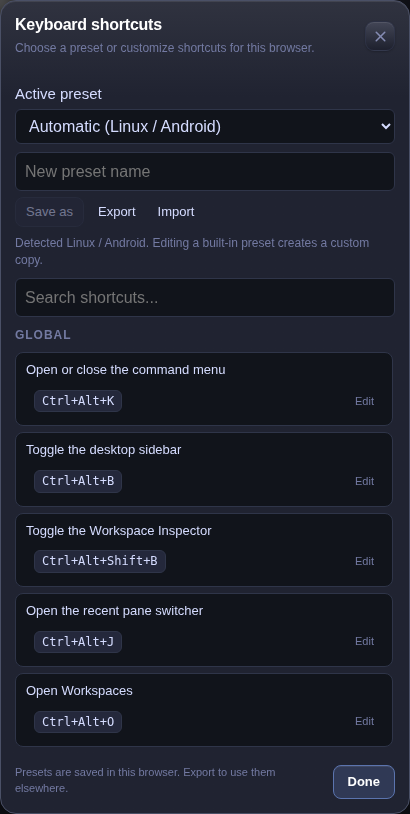
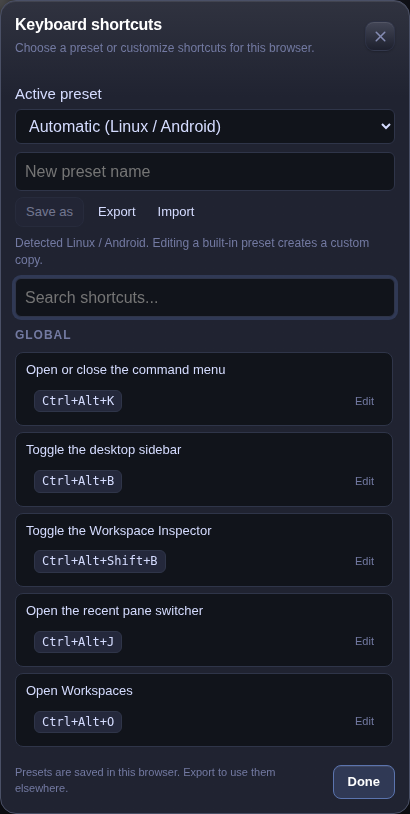
Fix terminal application paging and add configurable copy shortcuts

Changed region(s): [[0.0293, 0.3378, 0.9951, 0.3993]]

diff --git a/server/src/bridge/endpoint-terminal-session.test.ts b/server/src/bridge/endpoint-terminal-session.test.ts
@@ -1138,7 +1138,8 @@ test("terminal bridge carries endpoint mouse state and targets each attached ter
       ["down", "history"],
       ["up", "page-key"],
     ]) {
-      const before = scrollRequests.length;
+      const beforeScrolls = scrollRequests.length;
+      const beforeInputs = inputs.length;
       await bridge.handleTerminalRpc(ws, "history", "terminal.scroll", {
         terminal_id: "right",
         direction,
@@ -1146,15 +1147,17 @@ test("terminal bridge carries endpoint mouse state and targets each attached ter
         source,
       });
       // Verify each routing mode separately; bursts intentionally coalesce.
-      await settleUntil(() => scrollRequests.length > before);
+      if (source === "page-key")
+        await settleUntil(() => inputs.length > beforeInputs);
+      else await settleUntil(() => scrollRequests.length > beforeScrolls);
     }
     await Bun.sleep(40);
     expect(scrollRequests).toEqual([
       { pane_id: "w1:p2", offset_from_bottom: 7 },
       { pane_id: "w1:p2", offset_from_bottom: 0 },
-      { pane_id: "w1:p2", offset_from_bottom: 7 },
     ]);
-    expect(inputs).toHaveLength(2);
+    expect(inputs).toHaveLength(3);
+    expect(inputs.at(-1)).toBe("w1:p2");
   } finally {
     bridge.dispose();
   }
@@ -3211,3 +3214,96 @@ describe("scroll dispatch reconciliation", () => {
     },
   );
 });
+
+test("full page keys use semantic pane input even when history scrolling is unavailable", async () => {
+  const inputs: Array<{ paneId: string; code: number; modifiers: number }> = [];
+  const requests: string[] = [];
+  const socketPath = await startSessionServer({
+    methods: ["pane.focus"],
+    onRequest: (method) => {
+      requests.push(method);
+    },
+    onPaneInput: (paneId, reader) => {
+      expect(reader.varint()).toBe(1); // one event
+      expect(reader.variant()).toBe(0); // Key
+      const code = reader.variant();
+      const modifiers = reader.u8();
+      inputs.push({ paneId, code, modifiers });
+    },
+  });
+  const { bridge, ws, replies, attach } = creationBridge(socketPath);
+  try {
+    await attach();
+    for (const direction of ["up", "down"]) {
+      await bridge.handleTerminalRpc(ws, direction, "terminal.scroll", {
+        terminal_id: "term1",
+        direction,
+        lines: 20,
+        source: "page-key",
+      });
+      expect(replies.find((r) => r.id === direction)?.result).toEqual({
+        ok: true,
+      });
+    }
+    await settleUntil(() => inputs.length === 2);
+    expect(inputs).toEqual([
+      { paneId: "w1:p1", code: 8, modifiers: 0 },
+      { paneId: "w1:p1", code: 9, modifiers: 0 },
+    ]);
+    expect(requests).toEqual(["pane.focus"]);
+  } finally {
+    bridge.dispose();
+  }
+});
+
+for (const invalidate of [false, true]) {
+  test(`page-key input waits for attachment readiness${invalidate ? " and rejects a stale request" : ""}`, async () => {
+    const lookup = deferred<string>();
+    let started = false;
+    let current = true;
+    const inputs: string[] = [];
+    const socketPath = await startSessionServer({
+      onPaneInput: (id) => inputs.push(id),
+    });
+    const { bridge, ws, replies, attach } = creationBridge(socketPath, {
+      lookup: async () => {
+        started = true;
+        return lookup.promise;
+      },
+    });
+    try {
+      const attaching = attach();
+      await settleUntil(() => started);
+      const page = bridge.handleTerminalRpc(
+        ws,
+        "page",
+        "terminal.scroll",
+        {
+          terminal_id: "term1",
+          direction: "down",
+          source: "page-key",
+          lines: 24,
+        },
+        () => current,
+      );
+      await Bun.sleep(10);
+      expect(inputs).toEqual([]);
+      expect(replies.find((r) => r.id === "page")).toBeUndefined();
+      if (invalidate) current = false;
+      lookup.resolve("w1:p1");
+      await Promise.all([attaching, page]);
+      if (invalidate) {
+        expect(replies.find((r) => r.id === "page")?.error).toBeDefined();
+        expect(inputs).toEqual([]);
+      } else {
+        expect(replies.find((r) => r.id === "page")?.result).toEqual({
+          ok: true,
+        });
+        await settleUntil(() => inputs.length === 1);
+        expect(inputs).toEqual(["w1:p1"]);
+      }
+    } finally {
+      bridge.dispose();
+    }
+  });
+}

diff --git a/web/src/shortcutBindings.test.ts b/web/src/shortcutBindings.test.ts
@@ -295,3 +295,77 @@ describe("shortcut preset persistence and exchange", () => {
     );
   });
 });
+
+describe("terminal copy shortcuts", () => {
+  test("copies with platform bindings without taking over Ctrl+C", () => {
+    for (const platform of ["windows", "linux", "mac"] as const) {
+      const bindings = defaultShortcutBindings(platform);
+      const copyKey = event({ key: "c", code: "KeyC", ctrlKey: true });
+      expect(matchesShortcut(copyKey, "terminal.copy", bindings)).toBe(false);
+      if (platform === "mac") {
+        expect(
+          matchesShortcut(
+            { ...copyKey, ctrlKey: false, metaKey: true },
+            "terminal.copy",
+            bindings,
+          ),
+        ).toBe(true);
+      } else {
+        expect(
+          matchesShortcut(
+            { ...copyKey, shiftKey: true },
+            "terminal.copy",
+            bindings,
+          ),
+        ).toBe(true);
+        expect(
+          matchesShortcut(
+            { ...copyKey, key: "Insert", code: "Insert" },
+            "terminal.copy",
+            bindings,
+          ),
+        ).toBe(true);
+      }
+    }
+  });
+
+  test("older presets gain only copy defaults that do not conflict with saved assignments", () => {
+    const previous = preset();
+    const bindings: Partial<typeof previous.bindings> = {
+      ...previous.bindings,
+    };
+    delete bindings["terminal.copy"];
+    bindings["tab.create"] = ["Ctrl+Shift+C"];
+    const loaded = parseShortcutPreferences(
+      JSON.stringify({
+        version: 1,
+        active: previous.id,
+        presets: [{ ...previous, bindings }],
+      }),
+    );
+    expect(loaded.active).toBe(previous.id);
+    expect(loaded.presets[0].bindings["tab.create"]).toEqual(["Ctrl+Shift+C"]);
+    expect(loaded.presets[0].bindings["terminal.copy"]).toEqual([
+      "Ctrl+Insert",
+    ]);
+    bindings["tab.close"] = ["Ctrl+Insert"];
+    const bothTaken = validateShortcutPreset({ ...previous, bindings });
+    expect(bothTaken.bindings["terminal.copy"]).toEqual([]);
+  });
+
+  test("explicitly unassigned and customized copy keys survive preset round trips", () => {
+    for (const keys of [[], ["Ctrl+Alt+C"]]) {
+      const saved = preset();
+      saved.bindings["terminal.copy"] = keys;
+      const loaded = validateShortcutPreset(JSON.parse(JSON.stringify(saved)));
+      expect(loaded.bindings["terminal.copy"]).toEqual(keys);
+      expect(
+        matchesShortcut(
+          event({ key: "c", code: "KeyC", ctrlKey: true, shiftKey: true }),
+          "terminal.copy",
+          loaded.bindings,
+        ),
+      ).toBe(false);
+    }
+  });
+});

diff --git a/web/src/components/TerminalView.tsx b/web/src/components/TerminalView.tsx
@@ -43,6 +43,7 @@ import {
   useStoreSelector,
 } from "../store";
 import {
+  copyTextFromUserGesture,
   createTerminalClipboardProvider,
   decodeTerminalClipboard,
 } from "../terminalClipboard";
@@ -759,7 +760,10 @@ export function TerminalView({
       if (shouldAvoidVirtualKeyboard()) blurTerminalInput();
       const targetTerminalId =
         desiredTerminalRef.current ?? paneTerminalIdRef.current;
-      if (!targetTerminalId || store.terminalScrollReason(targetTerminalId))
+      if (
+        !targetTerminalId ||
+        (amount === "half" && store.terminalScrollReason(targetTerminalId))
+      )
         return;
       connectionClient
         .call("terminal.scroll", {
@@ -1275,6 +1279,17 @@ export function TerminalView({
         e.preventDefault();
         e.stopPropagation();
         sendText(sequence);
+        return false;
+      }
+      if (e.type === "keydown" && shortcutMatches(e, "terminal.copy")) {
+        e.preventDefault();
+        e.stopPropagation();
+        const text = trimCopiedLinePadding(term.getSelection());
+        if (text) {
+          void copyTextFromUserGesture(text).catch((error) => {
+            setUploadError(`Copy failed: ${(error as Error).message}`);
+          });
+        }
         return false;
       }
       if (e.type === "keydown" && shortcutMatches(e, "terminal.paste")) {

diff --git a/web/src/shortcutCatalog.ts b/web/src/shortcutCatalog.ts
@@ -33,8 +33,16 @@ const descriptions: [ShortcutId, string, string][] = [
     "Command menu",
   ]),
   ["terminal.history", "Toggle agent message history", "Terminal"],
-  ["terminal.pageUp", "Scroll history up one page", "Terminal"],
-  ["terminal.pageDown", "Scroll history down one page", "Terminal"],
+  [
+    "terminal.pageUp",
+    "Page up in the application or shell history",
+    "Terminal",
+  ],
+  [
+    "terminal.pageDown",
+    "Page down in the application or shell history",
+    "Terminal",
+  ],
   ["terminal.halfPageUp", "Scroll history up half a page", "Terminal"],
   ["terminal.halfPageDown", "Scroll history down half a page", "Terminal"],
   ["terminal.multiline", "Send multiline Enter to the agent", "Terminal"],
@@ -46,6 +54,7 @@ const descriptions: [ShortcutId, string, string][] = [
     "Delete to the beginning of the input line",
     "Terminal",
   ],
+  ["terminal.copy", "Copy selected terminal text", "Terminal"],
   ["terminal.paste", "Paste text or images", "Terminal"],
   ["terminal.link", "Open links or preview workspace paths", "Terminal"],
   ["composer.send", "Send the terminal composer draft", "Terminal composer"],

diff --git a/server/src/bridge/terminal-bridge.ts b/server/src/bridge/terminal-bridge.ts
@@ -1092,6 +1092,24 @@ export function createTerminalBridge(args: {
         const column =
           typeof params.column === "number" ? Number(params.column) : null;
         const row = typeof params.row === "number" ? Number(params.row) : null;
+        if (
+          params.source === "page-key" &&
+          thin instanceof EndpointTerminalSession
+        ) {
+          if (!shared || !requestedTerminalId)
+            return fail(NO_TERMINAL_ATTACHED_MESSAGE);
+          const validateAttachment = await waitForOwnedTerminal(
+            ws,
+            requestedTerminalId,
+            shared,
+            requestIsCurrent,
+          );
+          validateAttachment();
+          // Herdr chooses application input versus shell scrollback from the
+          // actual PTY modes. pane.scroll always means history and bypasses nano.
+          thin.input(Buffer.from(direction === "up" ? "\x1b[5~" : "\x1b[6~"));
+          return reply({ ok: true });
+        }
         // Explicit half-page shortcuts use pane.scroll on endpoints, while
         // legacy AttachScroll keeps its original Wheel source and line count.
         const source =

diff --git a/web/src/shortcutPreferences.ts b/web/src/shortcutPreferences.ts
@@ -64,6 +64,13 @@ export function validateShortcutPreset(value: unknown): ShortcutPreset {
     if (Object.prototype.hasOwnProperty.call(input.bindings, id))
       bindings[id] = validateShortcutKeys(id, input.bindings[id]);
   }
+  // Older presets predate the copy action. Keep their explicit assignments
+  // and only add new default copy keys that do not conflict with them.
+  if (!Object.prototype.hasOwnProperty.call(input.bindings, "terminal.copy")) {
+    bindings["terminal.copy"] = bindings["terminal.copy"].filter(
+      (key) => shortcutConflicts("terminal.copy", [key], bindings).length === 0,
+    );
+  }
   for (const id of SHORTCUT_IDS) {
     if (shortcutConflicts(id, bindings[id], bindings).length)
       throw new Error(`Conflicting shortcuts for ${id}.`);

diff --git a/web/src/terminalClipboard.ts b/web/src/terminalClipboard.ts
@@ -97,7 +97,7 @@ async function writeClipboardText(
   throw clipboardError(failure ?? "browser clipboard access is unavailable");
 }
 
-/** Retry a blocked clipboard write from a real button click. */
+/** Copy from a real button click or terminal keyboard shortcut. */
 export async function copyTextFromUserGesture(
   text: string,
   options: Pick<
@@ -106,7 +106,7 @@ export async function copyTextFromUserGesture(
   > = {},
 ): Promise<void> {
   const fallback = options.fallback ?? copyWithDocument;
-  // The legacy path is synchronous, so it retains the button's transient user
+  // The legacy path is synchronous, so it retains the gesture's transient user
   // activation even on insecure HTTP origins where Clipboard API is absent.
   if (fallback(text)) return;
 

diff --git a/web/src/components/ShortcutLookupDialog.tsx b/web/src/components/ShortcutLookupDialog.tsx
@@ -444,8 +444,10 @@ export function ShortcutLookupDialog({
                 used to open it.
               </p>
               <p>
-                Native copy/paste, text editing, editor search navigation, and
-                keys sent directly to your shell or agent follow those
+                Terminal copy uses the selected text; Ctrl+C remains terminal
+                input unless reassigned. Page Up/Down follows the application or
+                shell, while half-page shortcuts scroll terminal history. Native
+                text editing and editor search navigation follow those
                 applications. Browser and operating system shortcuts may take
                 precedence over configured bindings.
               </p>

diff --git a/web/src/shortcutBindings.ts b/web/src/shortcutBindings.ts
@@ -46,6 +46,7 @@ const base = {
   "terminal.lineStart": ["Ctrl+A"],
   "terminal.lineEnd": ["Ctrl+E"],
   "terminal.deleteToStart": ["Ctrl+U"],
+  "terminal.copy": ["Ctrl+Shift+C", "Ctrl+Insert"],
   "terminal.paste": ["Ctrl+V", "Ctrl+Shift+V"],
   "terminal.link": ["Ctrl+Click"],
   "preview.search": ["Ctrl+F"],
@@ -109,6 +110,7 @@ export function defaultShortcutBindings(
       "terminal.lineStart": ["Meta+ArrowLeft", "Meta+ArrowUp"],
       "terminal.lineEnd": ["Meta+ArrowRight", "Meta+ArrowDown"],
       "terminal.deleteToStart": ["Meta+Backspace"],
+      "terminal.copy": ["Meta+C"],
       "terminal.paste": ["Meta+V"],
       "terminal.link": ["Meta+Click"],
       "preview.search": ["Meta+F"],

diff --git a/web/src/mobileTerminalShortcuts.ts b/web/src/mobileTerminalShortcuts.ts
@@ -199,14 +199,14 @@ export const MOBILE_TERMINAL_SHORTCUT_OPTIONS = [
   },
   {
     id: "page-up",
-    label: "Page Up (scrollback)",
+    label: "Page Up (application or shell history)",
     defaultButtonLabel: "PgUp",
     group: "Navigation",
     scroll: { direction: "up", amount: "full" },
   },
   {
     id: "page-down",
-    label: "Page Down (scrollback)",
+    label: "Page Down (application or shell history)",
     defaultButtonLabel: "PgDn",
     group: "Navigation",
     scroll: { direction: "down", amount: "full" },

diff --git a/web/src/terminalScroll.test.ts b/web/src/terminalScroll.test.ts
@@ -21,7 +21,7 @@ describe("terminal wheel scrolling", () => {
     expect(terminalWheelScroll(0, 0, 30)).toBeNull();
   });
 
-  test("routes full Page Up and Page Down as page-key scrollback", () => {
+  test("routes full Page Up and Page Down for application-aware page-key handling", () => {
     expect(terminalPageScroll("up", 30)).toEqual({
       direction: "up",
       lines: 28,

diff --git a/web/src/terminalScroll.ts b/web/src/terminalScroll.ts
@@ -34,7 +34,7 @@ export function terminalWheelScroll(
   };
 }
 
-/** Treats physical Page Up/Down as viewport scrollback rather than TUI input. */
+/** Full pages let Herdr route the key; half pages explicitly scroll history. */
 export function terminalPageScroll(
   direction: "up" | "down",
   rows: number,
